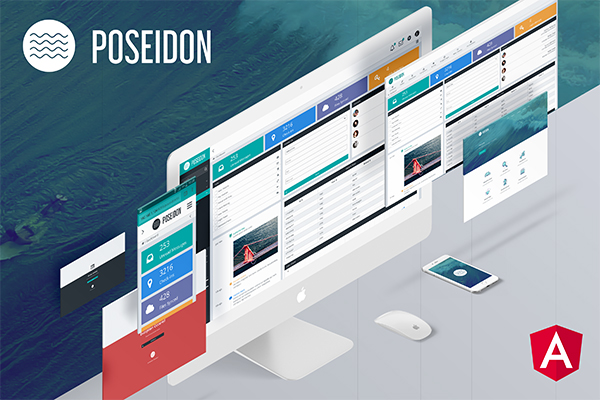
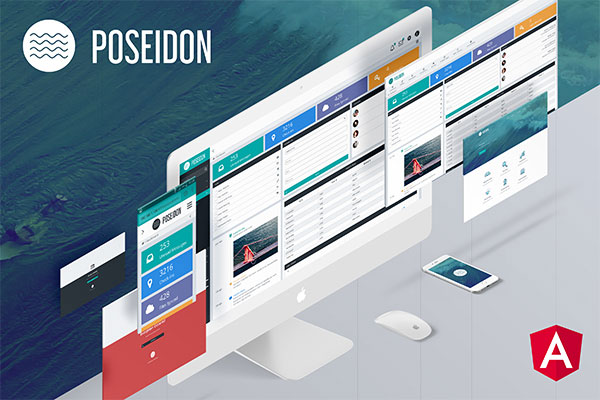
Optimize images

Changed region(s): [[0.63, 0.18, 0.66, 0.21]]

diff --git a/src/app/showcase/components/theming/theming.component.html b/src/app/showcase/components/theming/theming.component.html
@@ -24,8 +24,18 @@
     <div class="templates">
         <div class="ui-g">
             <div class="ui-g-6">
+                <a href="https://www.primefaces.org/layouts/babylon-ng">
+                    <img alt="Babylon" src="assets/showcase/images/layouts/babylon-ng.jpg">
+                </a>
+            </div>
+            <div class="ui-g-6">
+                <a href="https://www.primefaces.org/layouts/olympia-ng">
+                    <img alt="Olympia" src="assets/showcase/images/layouts/olympia-ng.jpg">
+                </a>
+            </div>
+            <div class="ui-g-6">
                 <a href="https://www.primefaces.org/layouts/california-ng">
-                    <img alt="California" src="assets/showcase/images/layouts/california-ng.png">
+                    <img alt="California" src="assets/showcase/images/layouts/california-ng.jpg">
                 </a>
             </div>
             <div class="ui-g-6">
@@ -35,12 +45,12 @@
             </div>
             <div class="ui-g-6">
                 <a href="https://www.primefaces.org/layouts/harmony-ng">
-                    <img alt="Harmony" src="assets/showcase/images/layouts/harmony-ng.png">
+                    <img alt="Harmony" src="assets/showcase/images/layouts/harmony-ng.jpg">
                 </a>
             </div>
             <div class="ui-g-6">
                 <a href="https://www.primefaces.org/layouts/apollo-ng">
-                    <img alt="Apollo" src="assets/showcase/images/layouts/apollo-ng.png">
+                    <img alt="Apollo" src="assets/showcase/images/layouts/apollo-ng.jpg">
                 </a>
             </div>
             <div class="ui-g-6">
@@ -55,17 +65,17 @@
             </div>
             <div class="ui-g-12 ui-md-4">
                 <a href="https://www.primefaces.org/layouts/verona-ng">
-                    <img alt="Verona" src="assets/showcase/images/layouts/verona-ng.png">
+                    <img alt="Verona" src="assets/showcase/images/layouts/verona-ng.jpg">
                 </a>
             </div>
             <div class="ui-g-12 ui-md-4">
                 <a href="https://www.primefaces.org/layouts/manhattan-ng">
-                    <img alt="Manhattan" src="assets/showcase/images/layouts/manhattan-ng.png">
+                    <img alt="Manhattan" src="assets/showcase/images/layouts/manhattan-ng.jpg">
                 </a>
             </div>
             <div class="ui-g-12 ui-md-4">
                 <a href="https://www.primefaces.org/layouts/paradise-ng">
-                    <img alt="Paradise" src="assets/showcase/images/layouts/paradise-ng.png">
+                    <img alt="Paradise" src="assets/showcase/images/layouts/paradise-ng.jpg">
                 </a>
             </div>
             <div class="ui-g-12 ui-md-4">

diff --git a/src/app/showcase/components/home/home.component.html b/src/app/showcase/components/home/home.component.html
@@ -133,12 +133,12 @@
             </div>
             <div class="ui-g-12 ui-md-6">
                 <a href="https://www.primefaces.org/layouts/olympia-ng">
-                    <img alt="Olympia" src="assets/showcase/images/layouts/olympia-ng.png">
+                    <img alt="Olympia" src="assets/showcase/images/layouts/olympia-ng.jpg">
                 </a>
             </div>
             <div class="ui-g-12 ui-md-6">
                 <a href="https://www.primefaces.org/layouts/california-ng">
-                    <img alt="California" src="assets/showcase/images/layouts/california-ng.png">
+                    <img alt="California" src="assets/showcase/images/layouts/california-ng.jpg">
                 </a>
             </div>
             <div class="ui-g-12 ui-md-6">
@@ -148,12 +148,12 @@
             </div>
             <div class="ui-g-12 ui-md-6">
                 <a href="https://www.primefaces.org/layouts/harmony-ng">
-                    <img alt="Harmony" src="assets/showcase/images/layouts/harmony-ng.png">
+                    <img alt="Harmony" src="assets/showcase/images/layouts/harmony-ng.jpg">
                 </a>
             </div>
             <div class="ui-g-12 ui-md-6">
                 <a href="https://www.primefaces.org/layouts/apollo-ng">
-                    <img alt="Apollo" src="assets/showcase/images/layouts/apollo-ng.png">
+                    <img alt="Apollo" src="assets/showcase/images/layouts/apollo-ng.jpg">
                 </a>
             </div>
             <div class="ui-g-12 ui-md-6">
@@ -168,17 +168,17 @@
             </div>
             <div class="ui-g-12 ui-md-4">
                 <a href="https://www.primefaces.org/layouts/verona-ng">
-                    <img alt="Verona" src="assets/showcase/images/layouts/verona-ng.png">
+                    <img alt="Verona" src="assets/showcase/images/layouts/verona-ng.jpg">
                 </a>
             </div>
             <div class="ui-g-12 ui-md-4">
                 <a href="https://www.primefaces.org/layouts/manhattan-ng">
-                    <img alt="Manhattan" src="assets/showcase/images/layouts/manhattan-ng.png">
+                    <img alt="Manhattan" src="assets/showcase/images/layouts/manhattan-ng.jpg">
                 </a>
             </div>
             <div class="ui-g-12 ui-md-4">
                 <a href="https://www.primefaces.org/layouts/paradise-ng">
-                    <img alt="Paradise" src="assets/showcase/images/layouts/paradise-ng.png">
+                    <img alt="Paradise" src="assets/showcase/images/layouts/paradise-ng.jpg">
                 </a>
             </div>
             <div class="ui-g-12 ui-md-4">
